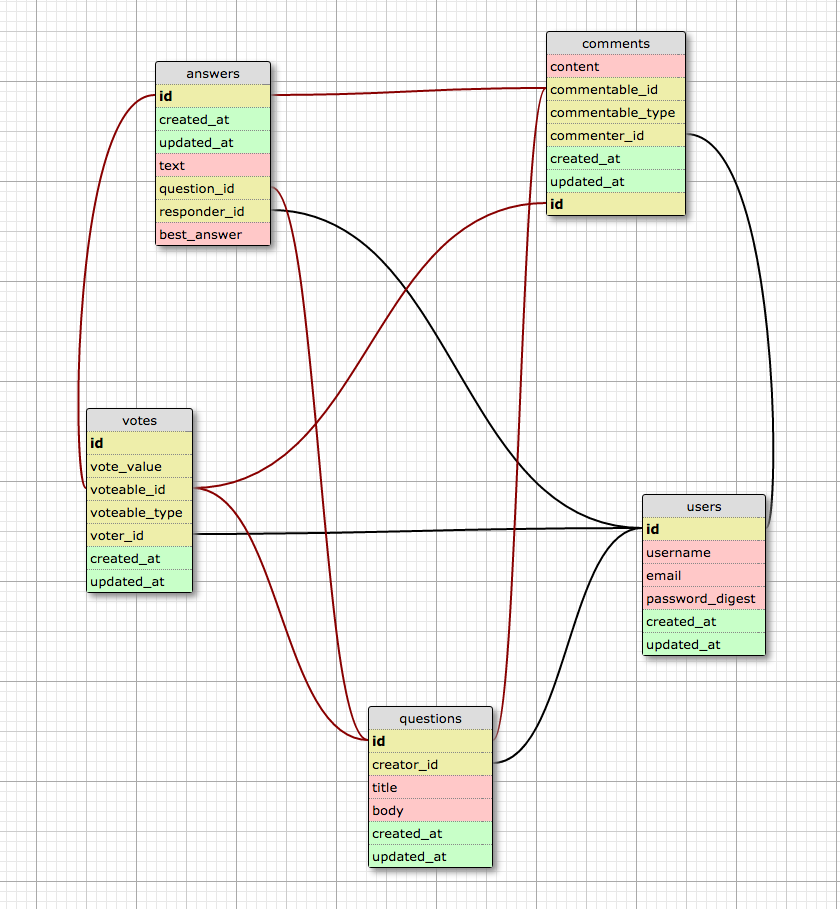
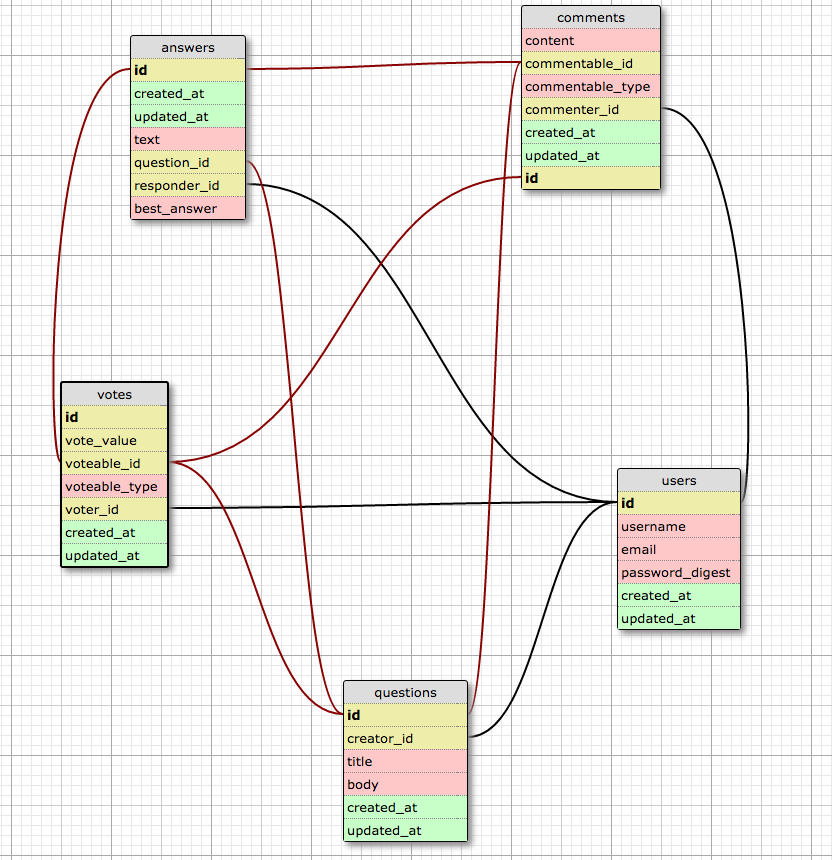
edit schema to make able-types varchar

Changed region(s): [[0.0, 0.0, 1.0, 0.9977], [0.9688, 0.5744, 1.0, 0.6047], [0.9688, 0.4535, 1.0, 0.4837]]

diff --git a/db/migrate/20161103110315_create_votes.rb b/db/migrate/20161103110315_create_votes.rb
@@ -2,8 +2,8 @@ class CreateVotes < ActiveRecord::Migration
   def change
     create_table :votes do |t|
       t.integer :vote_value, {null: false}
-      t.integer :votable_id, {null: false}
-      t.string :votable_type, {null: false} #on schema as integer type
+      t.integer :voteable_id, {null: false}
+      t.string :voteable_type, {null: false}
       t.integer :voter_id, {null: false} #Uniqueness with scope to a user & votable item
 
       t.timestamps(null: false)
